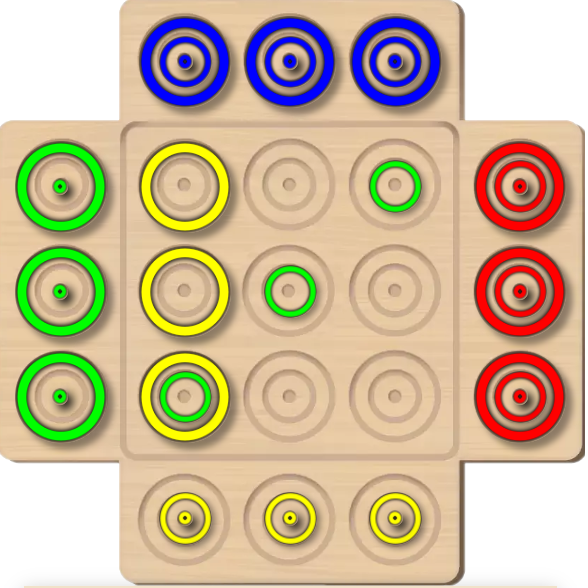
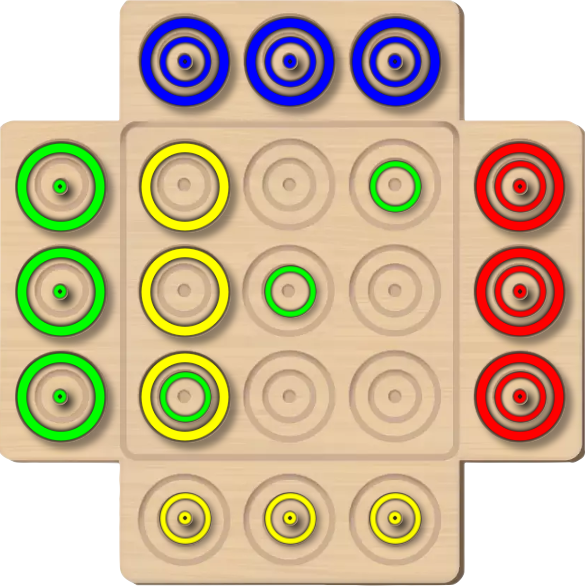
made lighter images

Changed region(s): [[0.0306, 0.9796, 0.949, 1.0]]

diff --git a/otrioStyle.css b/otrioStyle.css
@@ -2,7 +2,7 @@
     --gameDivSize: 84vh;
 }
 body {
-    background-image: url('Images/otrioLightBg.jpg');
+    background-image: url('Images/otrioLightBg.webp');
     font-family: Arial, Helvetica, sans-serif;
 }
 h1 {
